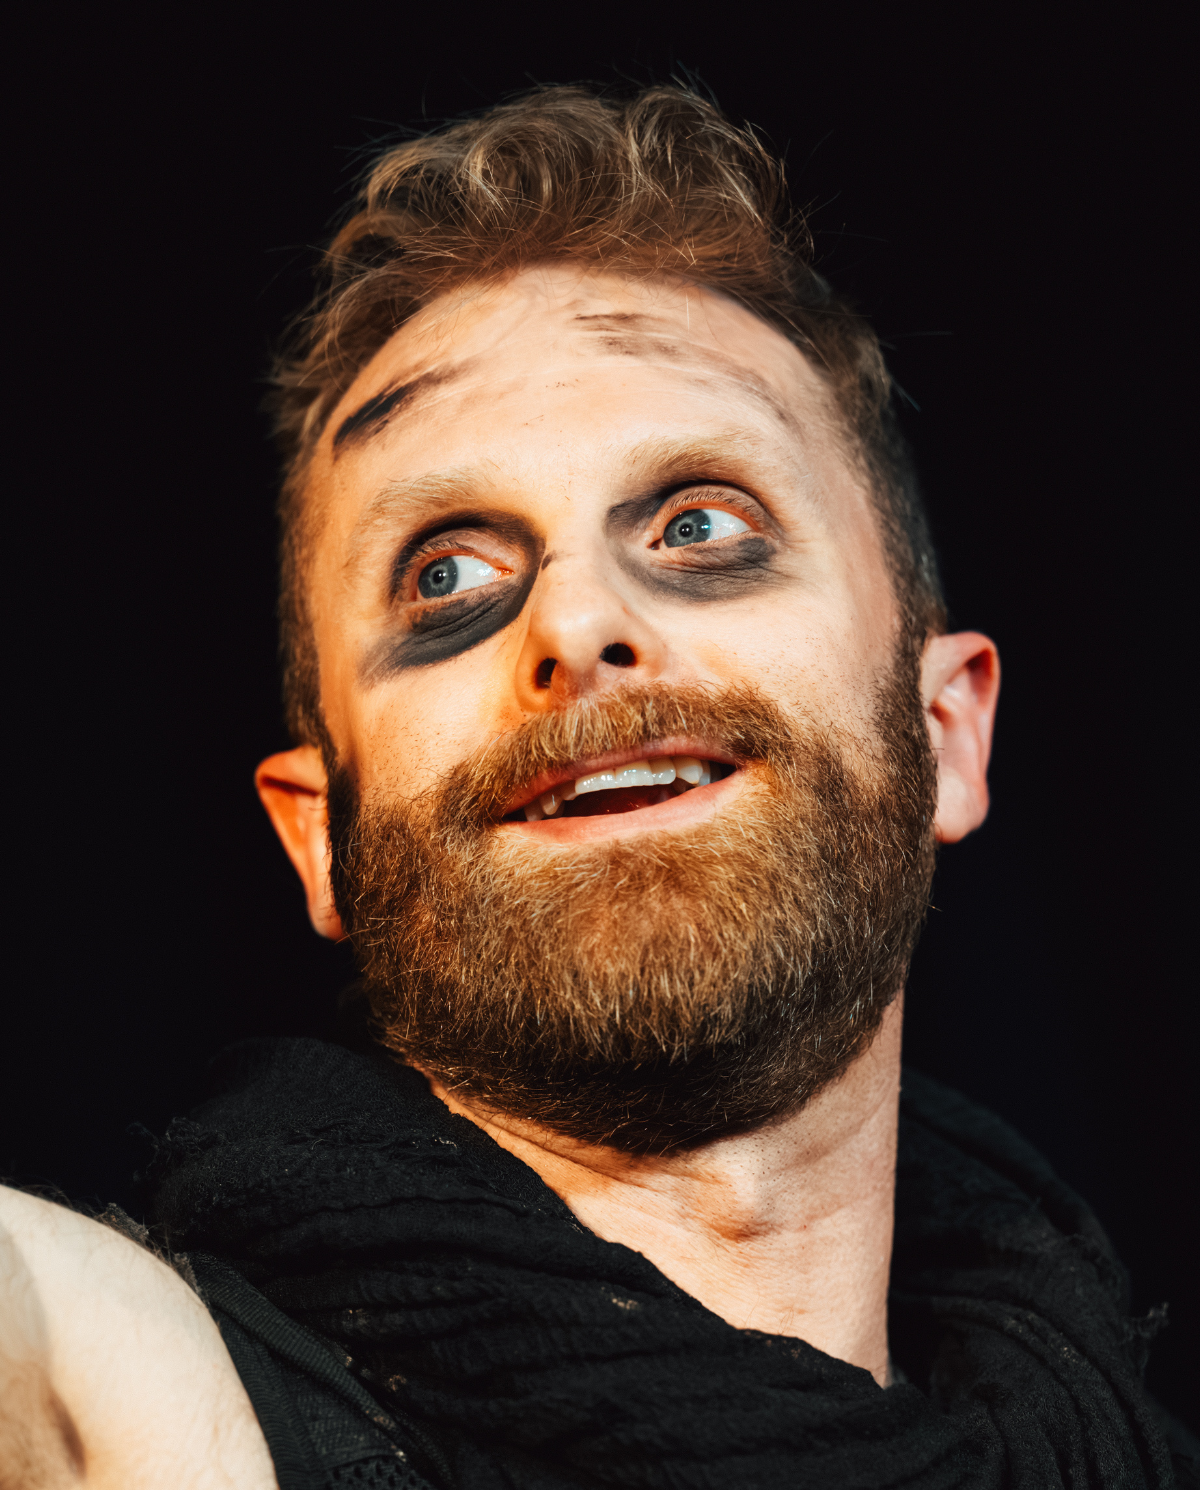
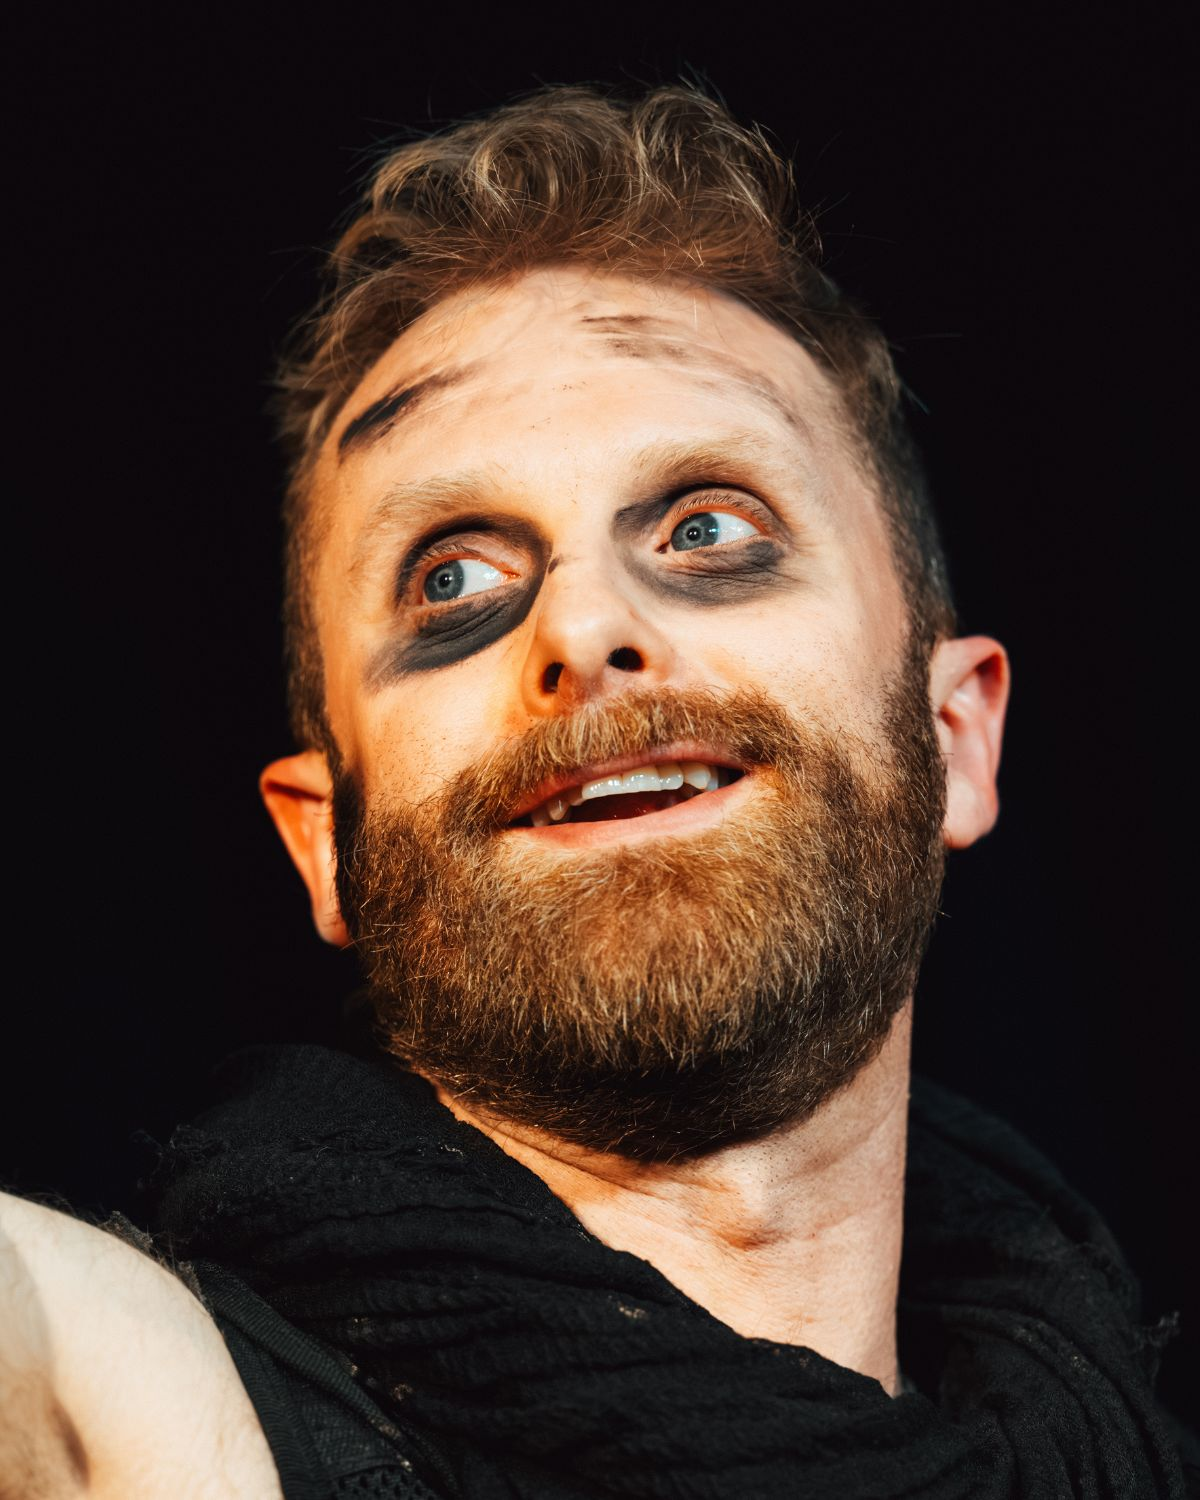
images

diff --git a/index.html b/index.html
@@ -292,6 +292,22 @@ footer{
     font-size:.9rem;
 }
 
+.show-image{
+    width:100%;
+    aspect-ratio:16/9;
+    object-fit:cover;
+    margin:-2rem -2rem 1.5rem -2rem;
+    width:calc(100% + 4rem);
+    border-bottom:1px solid var(--border);
+}
+
+.small-button{
+    display:inline-block;
+    margin-top:1.5rem;
+    padding:.75rem 1.25rem;
+    font-size:.8rem;
+}
+
 @media(max-width:900px){
 
     .feature{
@@ -356,34 +372,66 @@ footer{
         <h2>Upcoming Performances</h2>
 
         <p class="section-intro">
-            Join us as we explore new communities, impossible choices,
-            and the fragile hope that remains after the end of the world.
+            Join us as we explore new communities, impossible choices, and the fragile hope that remains after the end of the world.
         </p>
 
         <div class="grid shows-grid">
 
-            <article class="card">
+            <article class="card"></article>
+                <img class="show-image"
+                     src="images/show-july.jpg"
+                     alt="Tales From The Wasteland">
+            
                 <div class="date">10 July 2026</div>
-                <h3>Pride Special!</h3>
+            
+                <h3>Pride Special</h3>
+            
                 <p>
                     This Pride special celebrates the colourful, chaotic, and wonderfully diverse communities that thrive after the end of the world. Expect mutants, raiders, questionable fashion choices, and enough queer joy to survive any apocalypse. All profits from this show will be donated to Bristol Pride to support its work promoting equality, inclusion, and LGBTQ+ rights.
                 </p>
+            
+                <a class="button small-button"
+                   href="https://hdfst.uk/e147438">
+                    Book Tickets
+                </a>
             </article>
 
-            <article class="card">
+            <article class="card"></article>
+                <img class="show-image"
+                     src="images/show-august.jpg"
+                     alt="Tales From The Wasteland">
+            
                 <div class="date">20 - 22 August 2026</div>
+            
                 <h3>Camden Fringe (3 Nights)</h3>
+            
                 <p>
                     We return to Camden Fringe for the 3rd year with an even bigger show.
                 </p>
+            
+                <a class="button small-button"
+                   href="https://camdenfringe.com/events/tales-from-the-wasteland-post-apocalyptic-improv/">
+                    Book Tickets
+                </a>
             </article>
 
-            <article class="card">
-                <div class="date">3 September 2026</div>
+            <article class="card"></article>
+                <img class="show-image"
+                     src="images/show-sept.jpg"
+                     alt="Tales From The Wasteland">
+            
+                <div class="date">03 September 2026</div>
+            
                 <h3>Loco Klub</h3>
+            
                 <p>
                     If the world was ending, what would be the one thing you’d want to survive? Join us as we explore a new world and find out what’s left over after Earth’s devastation
                 </p>
+            
+                <a class="button small-button"
+                   href="https://hdfst.uk/e152139">
+                    Book Tickets
+                </a>
             </article>
 
         </div>